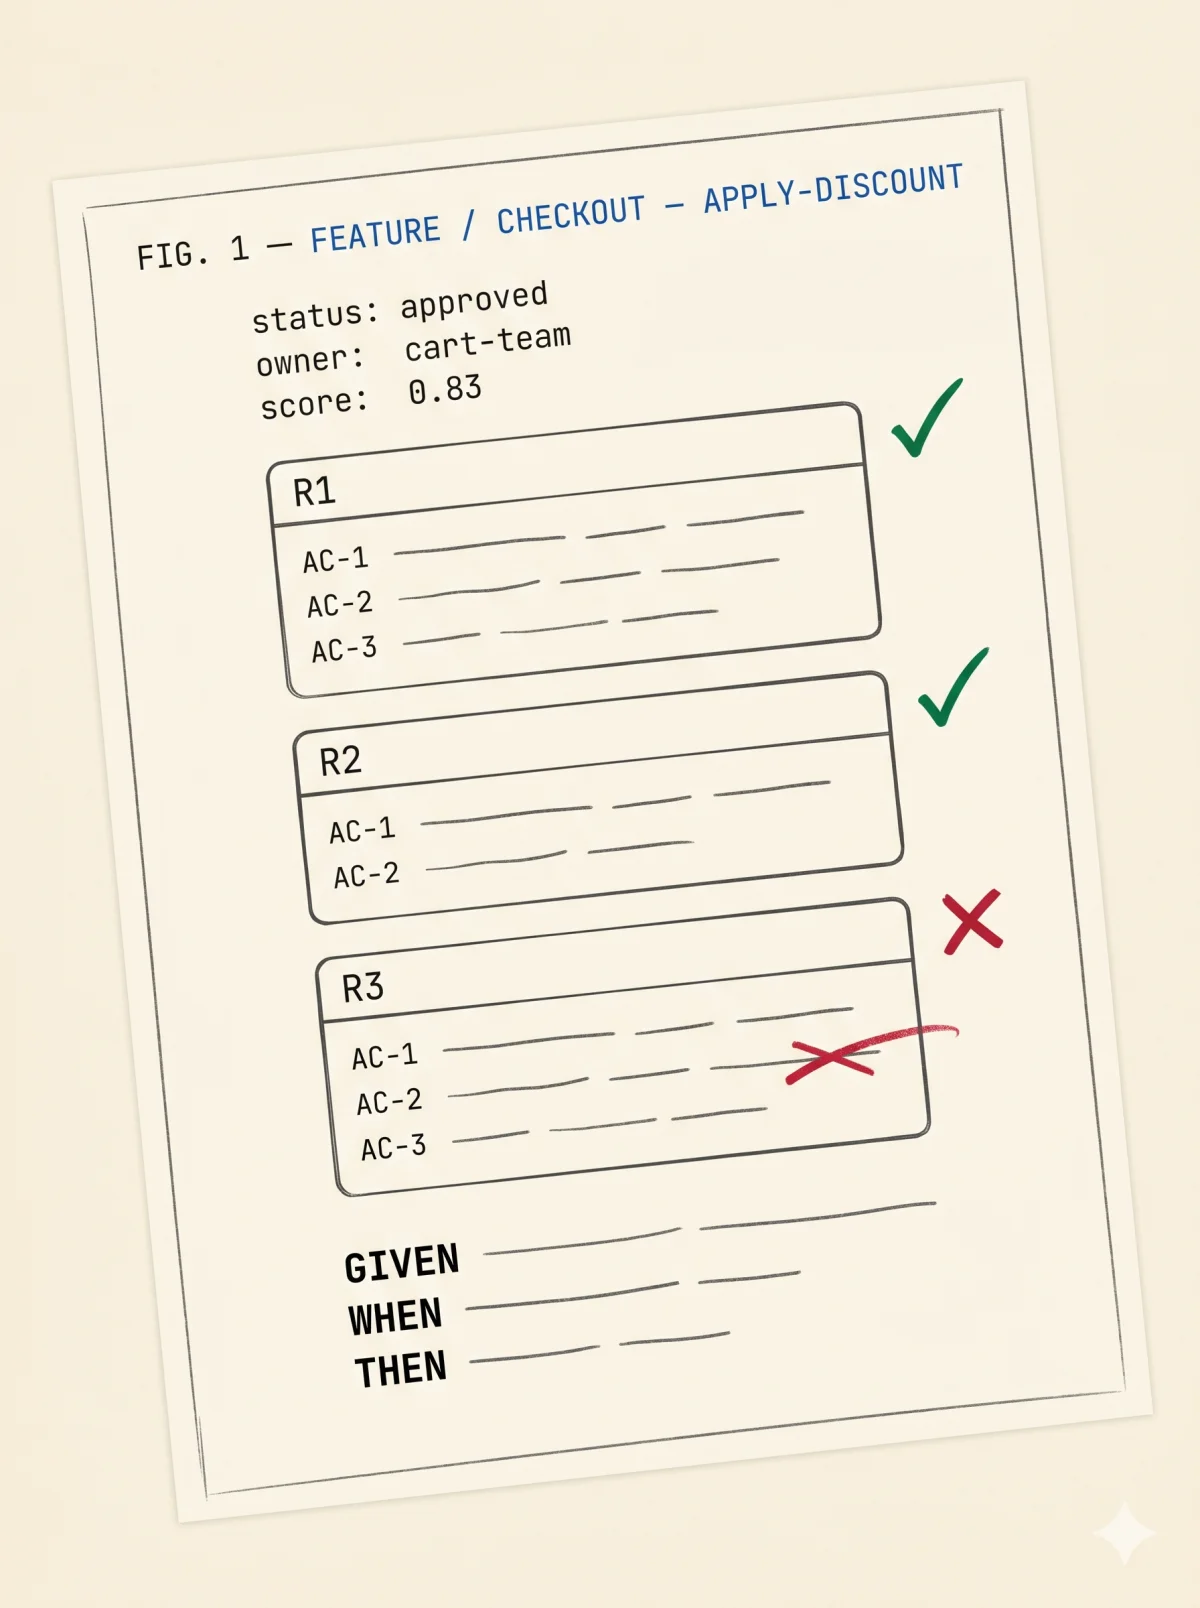
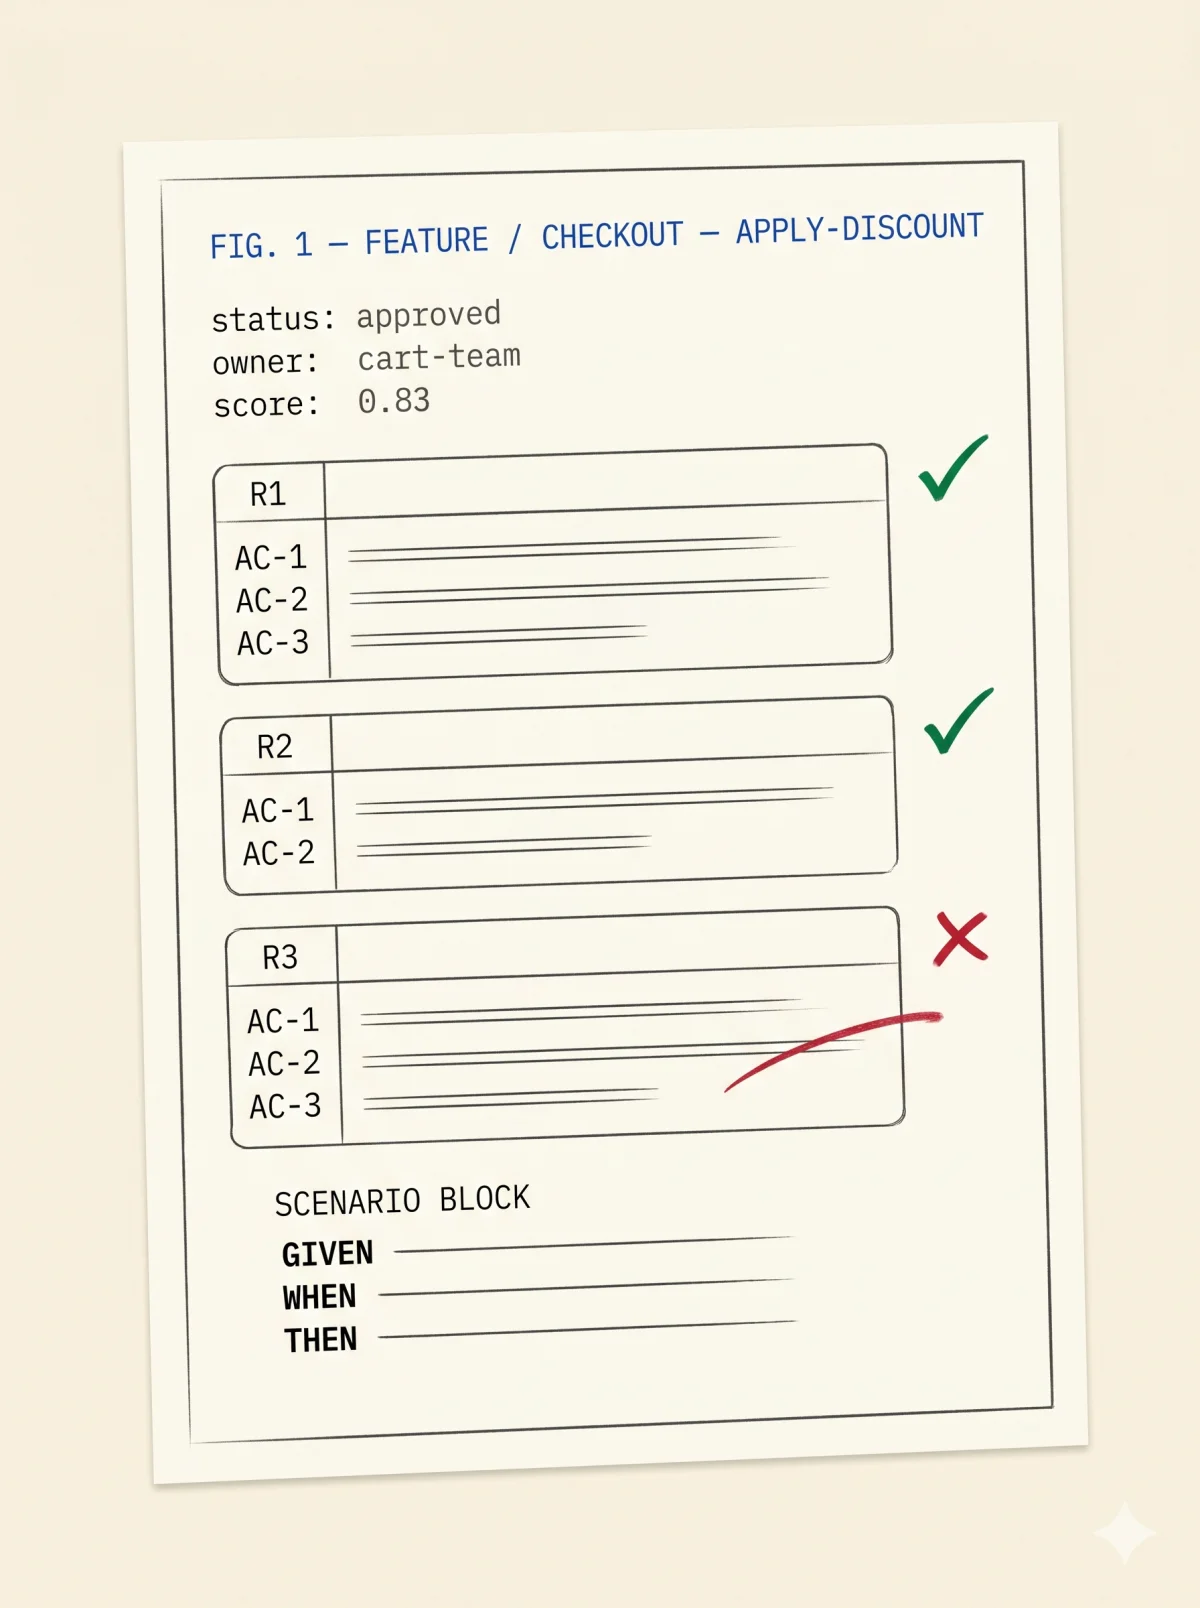
feat(landing): swap hero to Round 3 (two-cream design, paper lifts off desk)
Regenerated WebP variants from marketing/images/hero3.png. Round 3
solves the visual seam Round 2 had on production: the image's outer
cream now matches the website page background (#faf6ec) seamlessly,
and the paper sheet inside the image is a slightly lighter cream
(#fdfbf3) — paper visibly lifts off the desk without using a shadow.

Sizes (slightly smaller than Round 2 — simpler/more uniform paper area
compresses better):
- hero.webp     1400px  72 KB  (was 79 KB)
- hero@1x.webp   700px  29 KB  (was 31 KB)
- hero-og.webp  1200px  66 KB  (was 72 KB)

Remaining known artifacts in Round 3 source (will need pre-launch
cleanup in Figma/Photoshop):
- Gemini watermark in bottom-right (unavoidable model output)
- Faint residual drop shadow under the sheet (much fainter than R2,
  but still present — Gemini ignored constraint B again)

The "SCENARIO BLOCK" label Gemini added above the GIVEN/WHEN/THEN
section reads naturally and is being kept (better than the prompt
intent, actually).

No Astro/CSS changes needed — same /hero.webp path, same srcset shape;
landing CSS --cream stays at #faf6ec.

Source-of-truth iteration log in the marketing repo
(branding/prompts/hero-score.md § 10) has the full Round 3 retrospective.

diff --git a/tools/landing/README.md b/tools/landing/README.md
@@ -52,7 +52,7 @@ This page implements brand specs that live in the **marketing repo**, not in thi
 - [`specscore/marketing/branding/website/homepage-copy.md`](https://github.com/specscore/marketing/blob/main/branding/website/homepage-copy.md) — literal page text
 - [`specscore/marketing/branding/prompts/hero-score.md`](https://github.com/specscore/marketing/blob/main/branding/prompts/hero-score.md) — hero image generation prompt + iteration log
 
-The hero images in `public/` are **optimized WebP derivatives** of the marketing repo's `images/hero2.png` (the Round 2 Gemini output). The raw PNG is 5.2 MB; the three shipped WebP variants together are ~182 KB. Drop shadow + Gemini watermark are known artifacts in the source — they propagate through the optimization step; needs post-processing before public launch. See the marketing repo's iteration log for detail.
+The hero images in `public/` are **optimized WebP derivatives** of the marketing repo's `images/hero3.png` (Round 3 Gemini output — two-cream design where the paper sheet visibly lifts off the surrounding cream desk). The raw PNG is 5.3 MB; the three shipped WebP variants together are ~167 KB. Gemini watermark + a faint residual drop shadow are known artifacts in the source — they propagate through the optimization step; needs post-processing (clone-stamp the watermark, soften the shadow) before public launch. See the marketing repo's iteration log for detail.
 
 ### Regenerating the hero from a new source
 
@@ -78,9 +78,9 @@ tools/landing/
 ├── tsconfig.json
 ├── README.md  ← you are here
 ├── public/
-│   ├── hero.webp       (1400px, ~79 KB — derived from marketing/images/hero2.png)
-│   ├── hero@1x.webp    (700px, ~31 KB — mobile)
-│   ├── hero-og.webp    (1200×630, ~72 KB — OG image meta)
+│   ├── hero.webp       (1400px, ~72 KB — derived from marketing/images/hero3.png)
+│   ├── hero@1x.webp    (700px, ~29 KB — mobile)
+│   ├── hero-og.webp    (1200px, ~66 KB — OG image meta)
 │   └── favicon.svg     (clef glyph on cream)
 └── src/
     ├── layouts/

diff --git a/tools/landing/public/README.md b/tools/landing/public/README.md
@@ -4,9 +4,9 @@ Static files copied as-is into `dist/` at build time. Astro does no processing o
 
 | File | Purpose |
 |---|---|
-| `hero.webp` | Main hero illustration, 1400px wide, ~79 KB. Derived from `specscore/marketing/images/hero2.png`. |
-| `hero@1x.webp` | Mobile/1x variant, 700px wide, ~31 KB. |
-| `hero-og.webp` | Open Graph image, 1200×630, ~72 KB. |
+| `hero.webp` | Main hero illustration, 1400px wide, ~72 KB. Derived from `specscore/marketing/images/hero3.png` (Round 3 — two-cream design, paper lifts off the desk). |
+| `hero@1x.webp` | Mobile/1x variant, 700px wide, ~29 KB. |
+| `hero-og.webp` | Open Graph image, 1200px wide, ~66 KB. |
 | `favicon.svg` | Clef glyph on cream. |
 
 The raw PNG source is **not tracked here** — canonical source lives in the marketing repo. To regenerate the WebP variants from a refreshed source, see `tools/landing/README.md` § *Regenerating the hero from a new source*.
